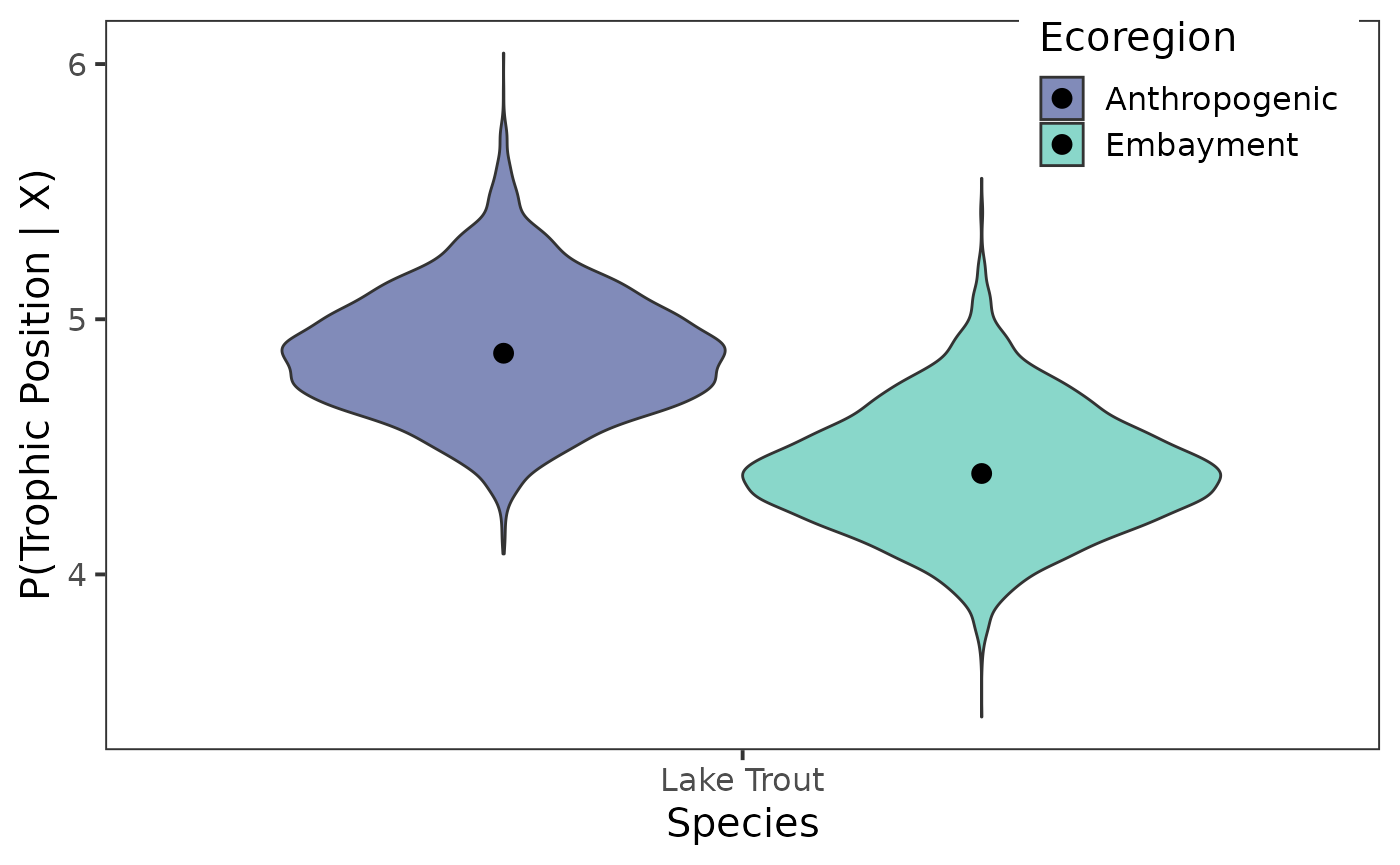
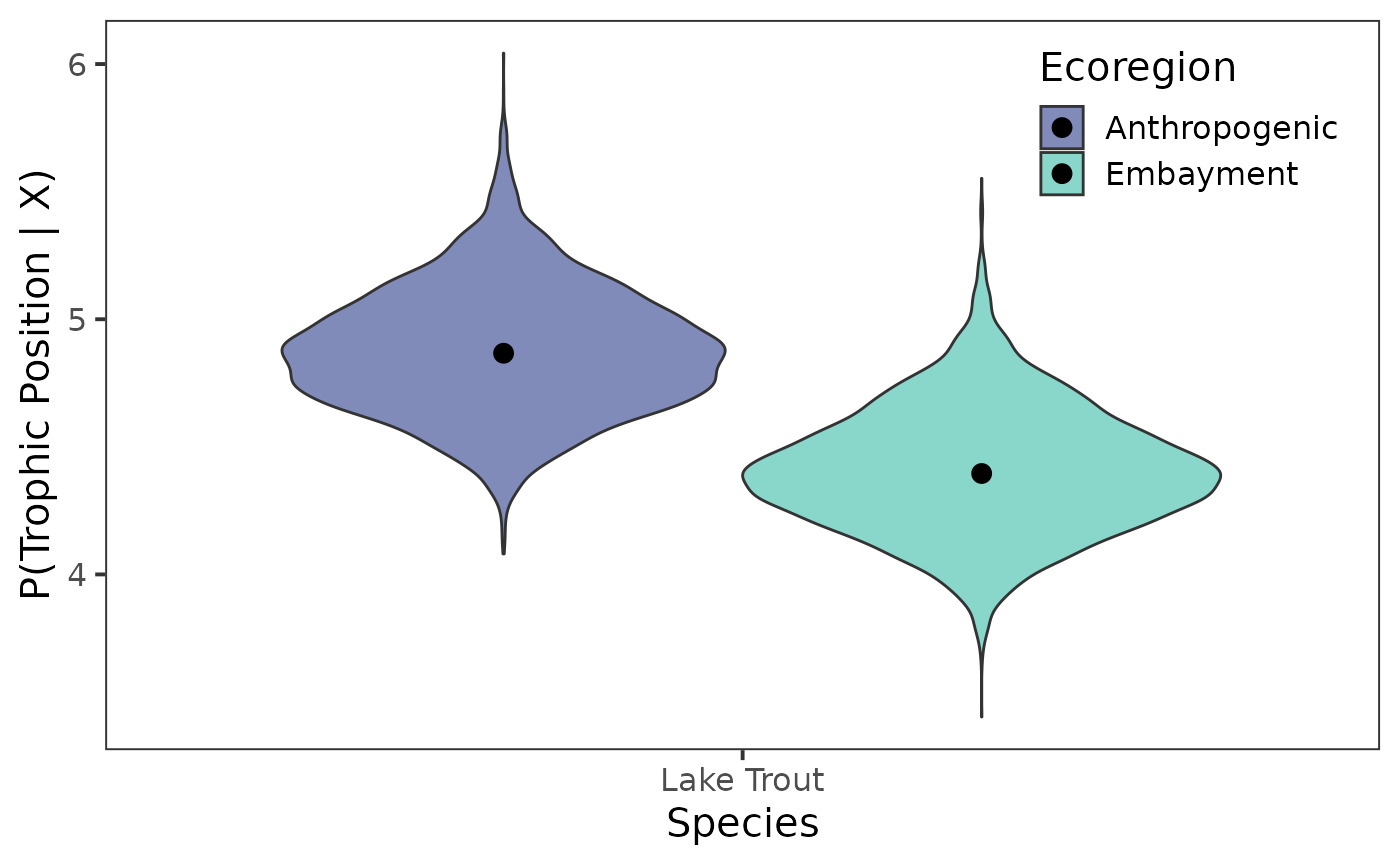
Deploying to gh-pages from @ benjaminhlina/trps@5de7797fd16e69758912998e1cf1b245baa21cc0 🚀

Changed region(s): [[0.7371, 0.0, 0.9521, 0.2497]]

diff --git a/articles/Estimate_trophic_position_one_source_model.html b/articles/Estimate_trophic_position_one_source_model.html
@@ -843,7 +843,7 @@ split your data up into.</p>
 </div>
 </div>
 <div class="section level2">
-<h2 id="ploting-posterior-distributions-1">Ploting posterior distributions<a class="anchor" aria-label="anchor" href="#ploting-posterior-distributions-1"></a>
+<h2 id="ploting-posterior-distributions---multiple-groups">Ploting posterior distributions - multiple groups<a class="anchor" aria-label="anchor" href="#ploting-posterior-distributions---multiple-groups"></a>
 </h2>
 <p>Now that we have our posterior draws extracted we can plot them. For
 comparing trophic position among species or groups, I like using either
@@ -867,7 +867,7 @@ access violins through {ggplot2} with the later being available in
 <span>  <span class="fu"><a href="https://ggplot2.tidyverse.org/reference/theme.html" class="external-link">theme</a></span><span class="op">(</span></span>
 <span>    panel.grid <span class="op">=</span> <span class="fu"><a href="https://ggplot2.tidyverse.org/reference/element.html" class="external-link">element_blank</a></span><span class="op">(</span><span class="op">)</span>,</span>
 <span>    legend.position <span class="op">=</span> <span class="st">"inside"</span>, </span>
-<span>    legend.position.inside <span class="op">=</span> <span class="fu"><a href="https://rdrr.io/r/base/c.html" class="external-link">c</a></span><span class="op">(</span><span class="fl">0.85</span>,  <span class="fl">0.9</span><span class="op">)</span></span>
+<span>    legend.position.inside <span class="op">=</span> <span class="fu"><a href="https://rdrr.io/r/base/c.html" class="external-link">c</a></span><span class="op">(</span><span class="fl">0.85</span>,  <span class="fl">0.86</span><span class="op">)</span></span>
 <span>  <span class="op">)</span> <span class="op">+</span></span>
 <span>  <span class="fu"><a href="https://ggplot2.tidyverse.org/reference/labs.html" class="external-link">labs</a></span><span class="op">(</span></span>
 <span>    x <span class="op">=</span> <span class="st">"Species"</span>, </span>
